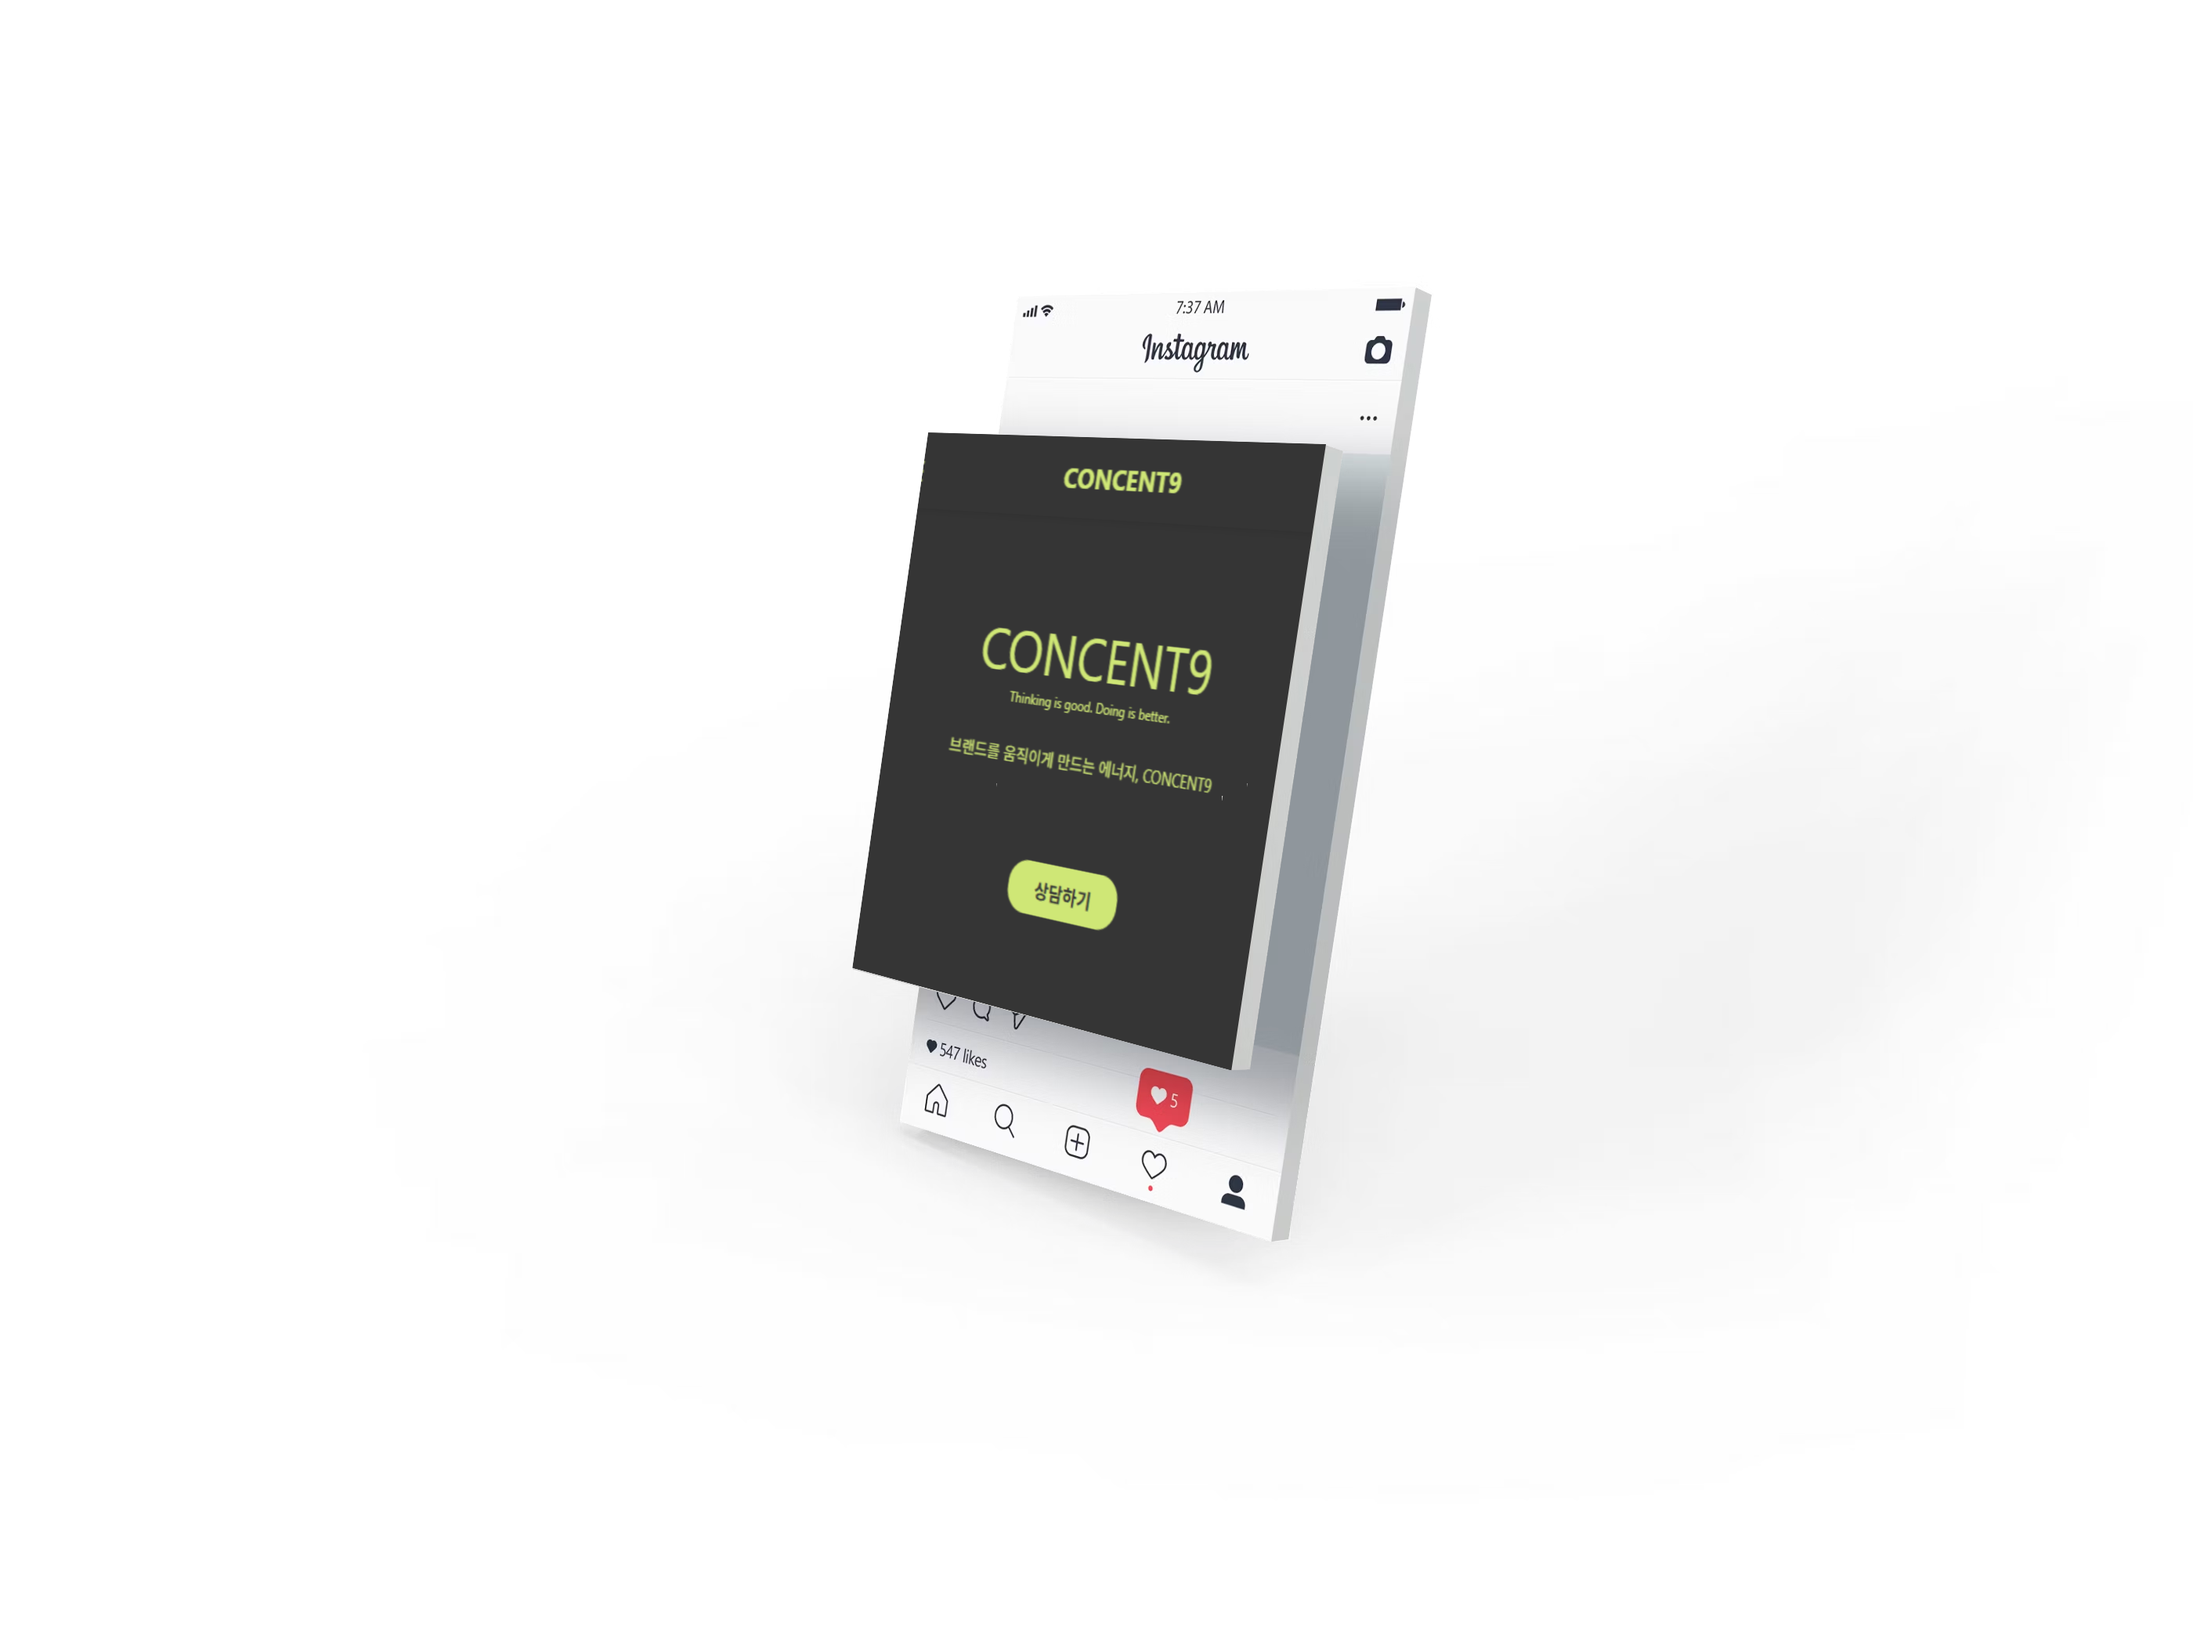
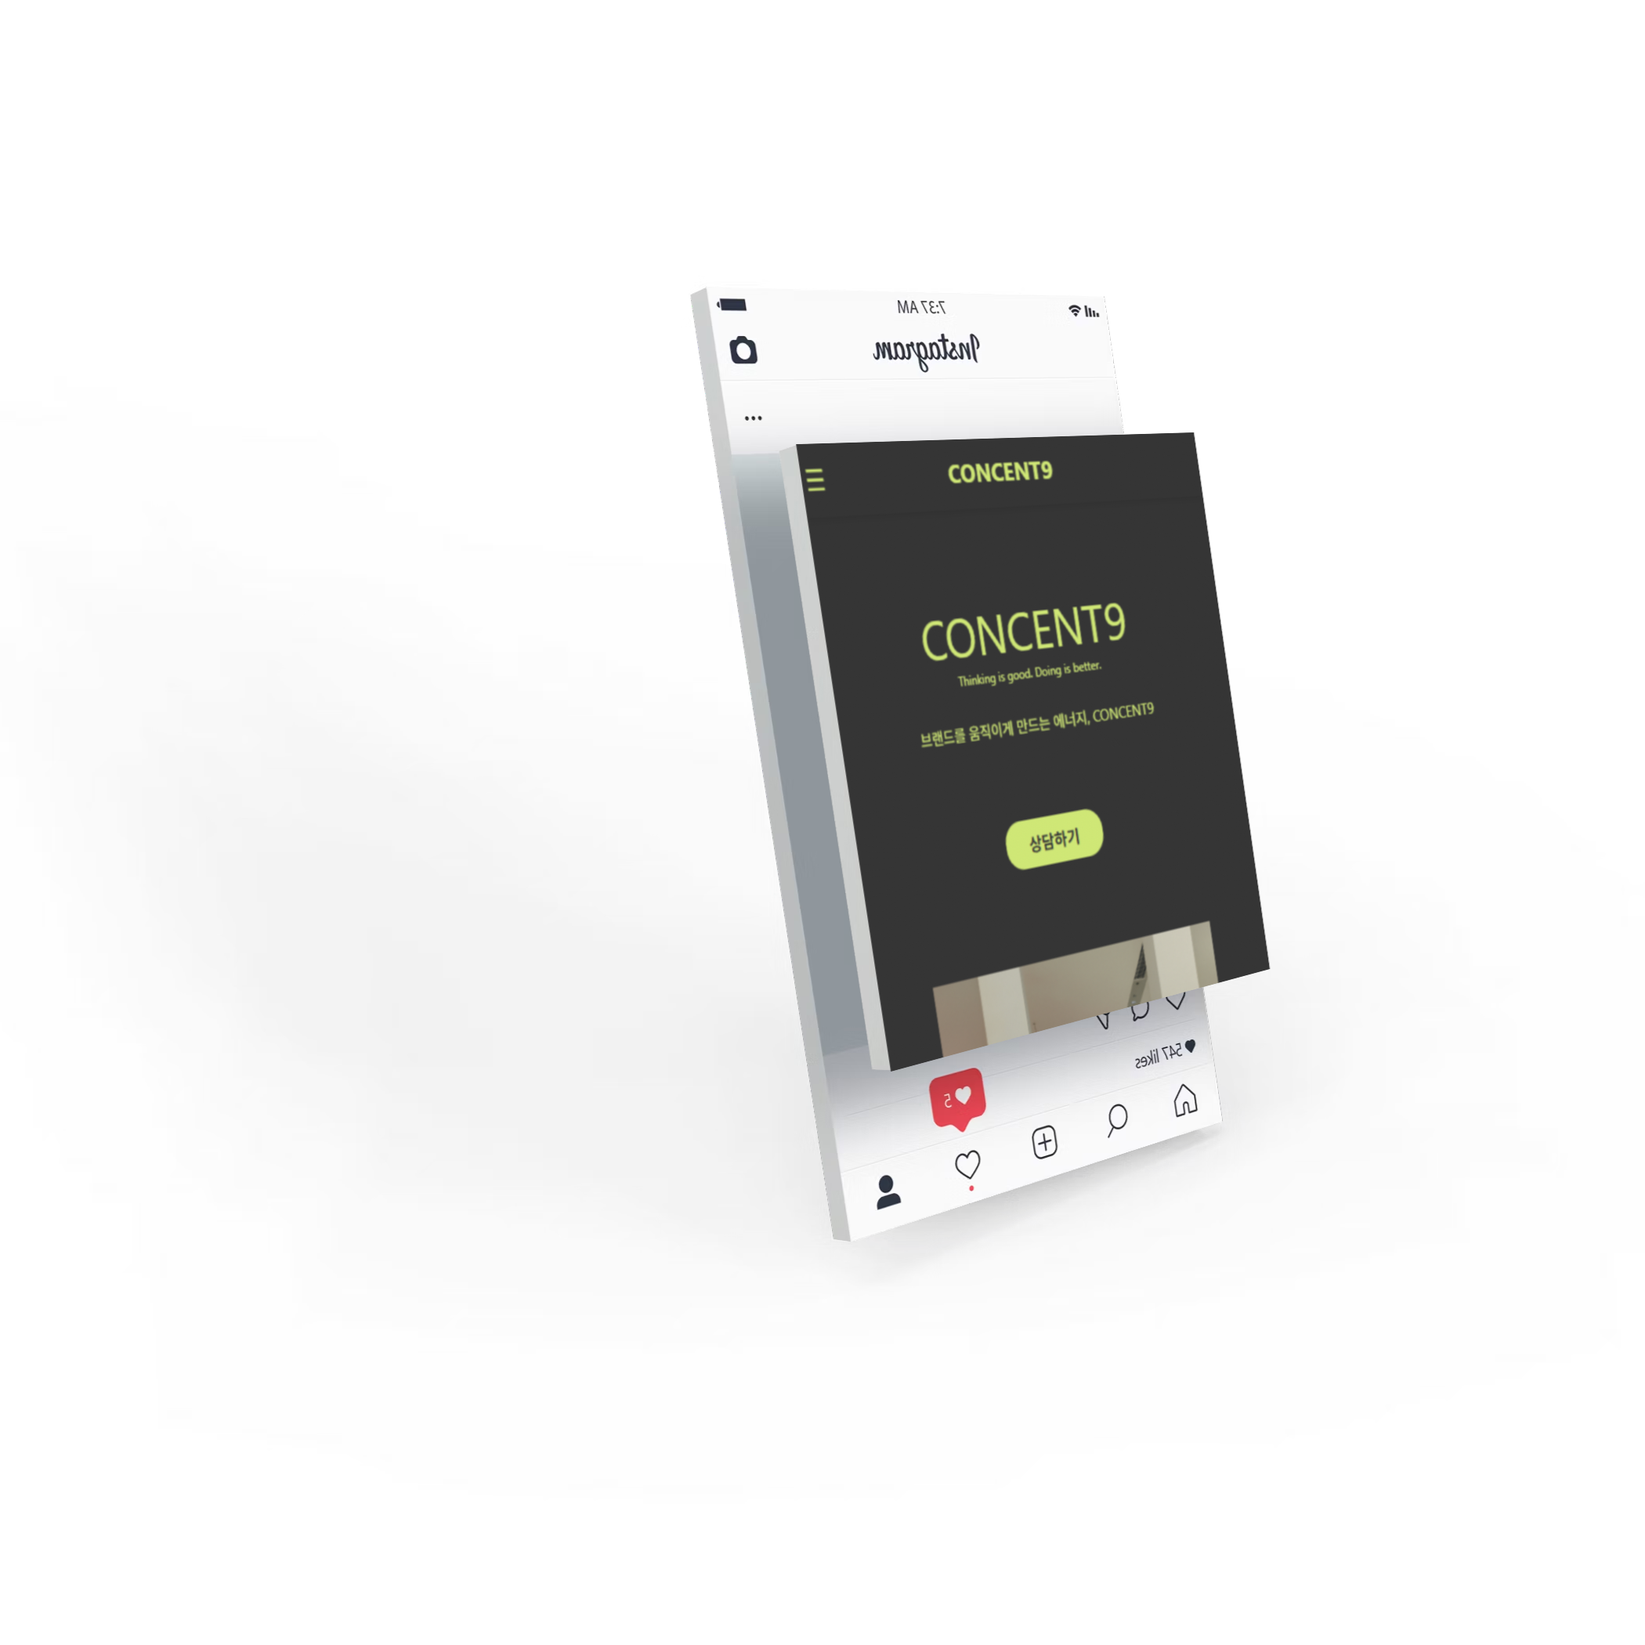
Contact 페이지 구성

Changed region(s): [[0.3714, 0.1548, 0.7738, 0.7738], [0.5262, 0.1857, 0.5881, 0.2167]]

diff --git a/src/pages/ContactPage.jsx b/src/pages/ContactPage.jsx
@@ -4,7 +4,6 @@ import body01 from "../img/insta.png";
 
 const Container = styled.main`
   width: 100%;
-  height: 100vh;
   display: flex;
   align-items: center;
   justify-content: center;
@@ -12,58 +11,104 @@ const Container = styled.main`
   background-color: #353535;
   color: #cfe776;
   font-size: 2rem;
+  padding-top: 70px;
+`;
+
+const FirstSection = styled.div`
+  width: 100%;
+  height: auto;
+  aspect-ratio: 1920 / 750;
+  display: flex;
+  align-items: center;
+  justify-content: center;
+  flex-direction: column;
+  @media (max-width: 1200px) {
+    aspect-ratio: 1200 / 400;
+  }
+  @media (max-width: 768px) {
+    aspect-ratio: 400 / 300;
+  }
 `;
 
 const SecondSection = styled.div`
   width: 100%;
   height: auto;
-  aspect-ratio: 1920 / 700;
+  aspect-ratio: 1920 / 750;
   display: flex;
   align-items: center;
   justify-content: space-around;
   flex-direction: row;
   @media (max-width: 1200px) {
-    aspect-ratio: 1200 / 1500;
+    aspect-ratio: 1200 / 1200;
     flex-direction: column;
+    justify-content: flex-start;
+  }
+`;
+
+const Title = styled.div`
+  font-size: 24px;
+  color: #cfe776;
+  @media (max-width: 768px) {
+    font-size: 20px;
+  }
+`;
+
+const Title2 = styled.div`
+  font-size: 20px;
+  color: #cfe776;
+  margin-top: 50px;
+  @media (max-width: 768px) {
+    font-size: 15px;
+    margin-top: 20px;
   }
 `;
 
 const TextBox = styled.div`
-  width: 40%;
+  width: 50%;
   height: 100%;
   display: flex;
-  align-items: center;
-  justify-content: flex-start;
+  align-items: flex-start;
+  justify-content: center;
+  flex-direction: column;
   @media (max-width: 1200px) {
     width: 100%;
-    justify-content: center;
+    height: 200px;
+    align-items: center;
+  }
+  @media (max-width: 768px) {
+    height: 300px;
   }
 `;
 
 const ImgBox = styled.div`
-  width: 60%;
+  width: 50%;
   height: 100%;
   display: flex;
   align-items: center;
-  justify-content: center;
+  justify-content: flex-end;
   @media (max-width: 1200px) {
     width: 100%;
+    height: 500px;
     justify-content: center;
+  }
+  @media (max-width: 768px) {
+    height: 300px;
+    justify-content: flex-start;
   }
 `;
 
 const ImageWrap = styled.div`
-  width: 100%;
+  width: 80%;
   height: auto;
-  aspect-ratio: 650 / 650;
+  aspect-ratio: 500 / 500;
   display: flex;
   align-items: center;
   justify-content: center;
   @media (max-width: 1200px) {
-    width: 70%;
+    width: 60%;
   }
   @media (max-width: 768px) {
-    width: 90%;
+    width: 80%;
   }
 `;
 
@@ -74,31 +119,41 @@ const StyledImg = styled.img`
 `;
 
 const InstaButton = styled.a`
-  padding: 14px 28px;
-  background-color: #cfe776;
-  color: #353535;
-  font-weight: bold;
-  font-size: 1.1rem;
+  width: 400px;
+  height: 50px;
+  display: flex;
+  align-items: center;
+  justify-content: flex-start;
+  color: #cfe776;
+  font-size: 24px;
   text-decoration: none;
-  border-radius: 25px;
+  padding-left: 20px;
+  border-radius: 20px;
   transition: 0.3s ease;
   cursor: pointer;
 
   &:hover {
-    background-color: #b076e7;
-    color: white;
+    color: #b076e7;
   }
 
   @media (max-width: 768px) {
-    padding: 12px 20px;
-    font-size: 0.95rem;
+    font-size: 16px;
   }
 `;
 
 const ContactPage = () => {
-  const fadeIn = useScrollFadeIn("up", 0.8, 0);
+  const fadeIn = useScrollFadeIn("up", 1, 0.2);
   return (
     <Container>
+      <FirstSection>
+        <Title>“고민하고 있다면, 지금이 시작할 타이밍입니다.”</Title>
+        <Title2>
+          브랜딩이 막막하다면, 실행부터 함께하는 콘센트9에 편하게 연락 주세요.
+        </Title2>
+        <Title2>
+          이름만 있어도, 아이디어만 있어도, 혹은 아무것도 없어도 괜찮습니다.
+        </Title2>
+      </FirstSection>
       <SecondSection>
         <ImgBox {...fadeIn}>
           <ImageWrap>
@@ -111,12 +166,22 @@ const ContactPage = () => {
           </ImageWrap>
         </ImgBox>
         <TextBox>
+          <InstaButton target="_blank" rel="noopener noreferrer">
+            📩 Maill: concent9.inc@gmail.com
+          </InstaButton>
           <InstaButton
             href="https://www.instagram.com/concent_nine"
             target="_blank"
             rel="noopener noreferrer"
           >
-            인스타그램 방문
+            📷 Instagram: @concent_nine
+          </InstaButton>
+          <InstaButton
+            href="https://www.threads.com/@concent_nine"
+            target="_blank"
+            rel="noopener noreferrer"
+          >
+            💬 thread: @concent_nine
           </InstaButton>
         </TextBox>
       </SecondSection>
